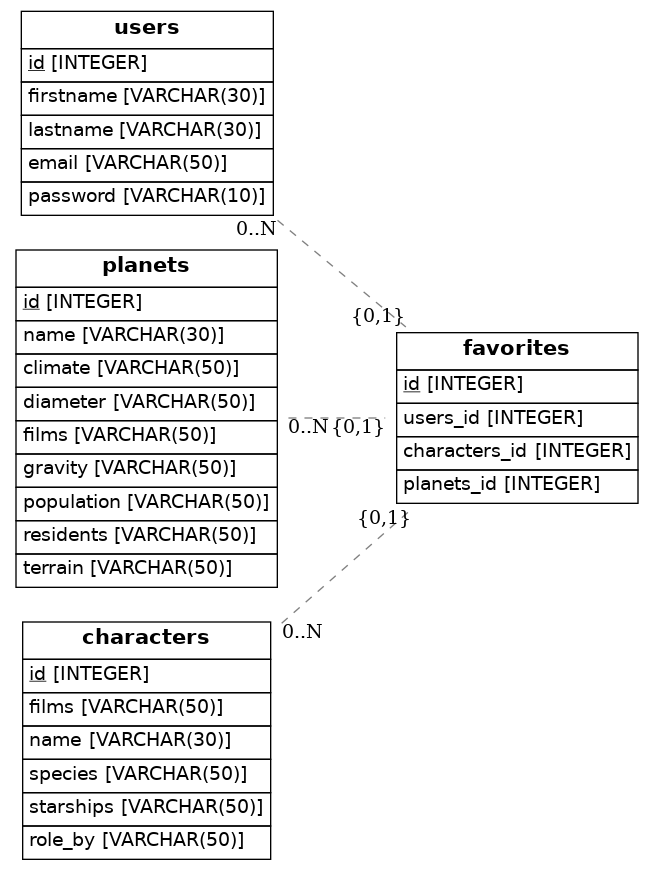
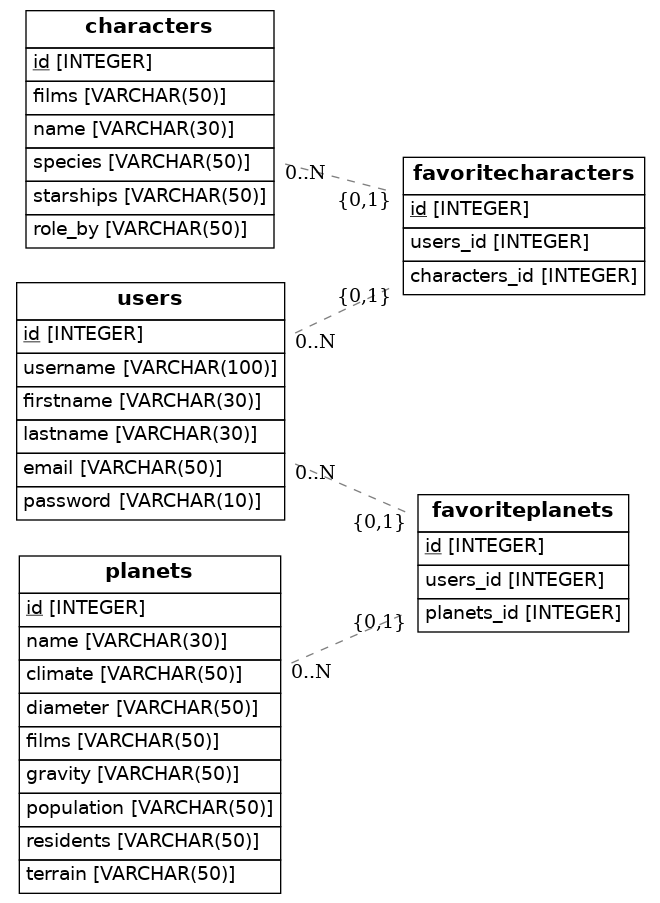
starwars2

diff --git a/src/models.py b/src/models.py
@@ -10,18 +10,11 @@ Base = declarative_base ()
 class User(Base):
     __tablename__ = 'users'
     id = Column (Integer, primary_key = True)
+    username = Column(String(100), unique=True, nullable=False)
     firstname = Column (String(30), nullable=False) 
     lastname = Column (String(30), nullable=False) 
     email = Column (String(50), nullable=False) 
     password = Column (String(10), nullable=False) 
-
-class Favorite (Base):
-    __tablename__ = 'favorites'
-    id = Column(Integer, primary_key=True)
-    users_id = Column(Integer, ForeignKey('users.id'))
-    characters_id = Column(Integer, ForeignKey('characters.id'))
-    planets_id = Column(Integer, ForeignKey('planets.id'))
-    user = relationship('User')
 
 class Planet(Base):
     __tablename__ = 'planets'
@@ -45,5 +38,19 @@ class Character(Base):
     species = Column (String(50), nullable=False) 
     starships = Column (String(50), nullable=False) 
     role_by = Column (String(50), nullable=False) 
+
+class FavoriteCharacter(Base):
+    __tablename__= 'favoritecharacters'
+    id = Column(Integer, primary_key=True)
+    users_id = Column(Integer, ForeignKey('users.id'))
+    characters_id = Column(Integer, ForeignKey('characters.id'))
+    user = relationship('User')
+
+class FavoritePlanet(Base):
+    __tablename__= 'favoriteplanets'
+    id = Column(Integer, primary_key=True)
+    users_id = Column(Integer, ForeignKey('users.id'))
+    planets_id = Column(Integer, ForeignKey('planets.id'))
+    user = relationship('User')
 
 render_er(Base, 'diagram.png')
